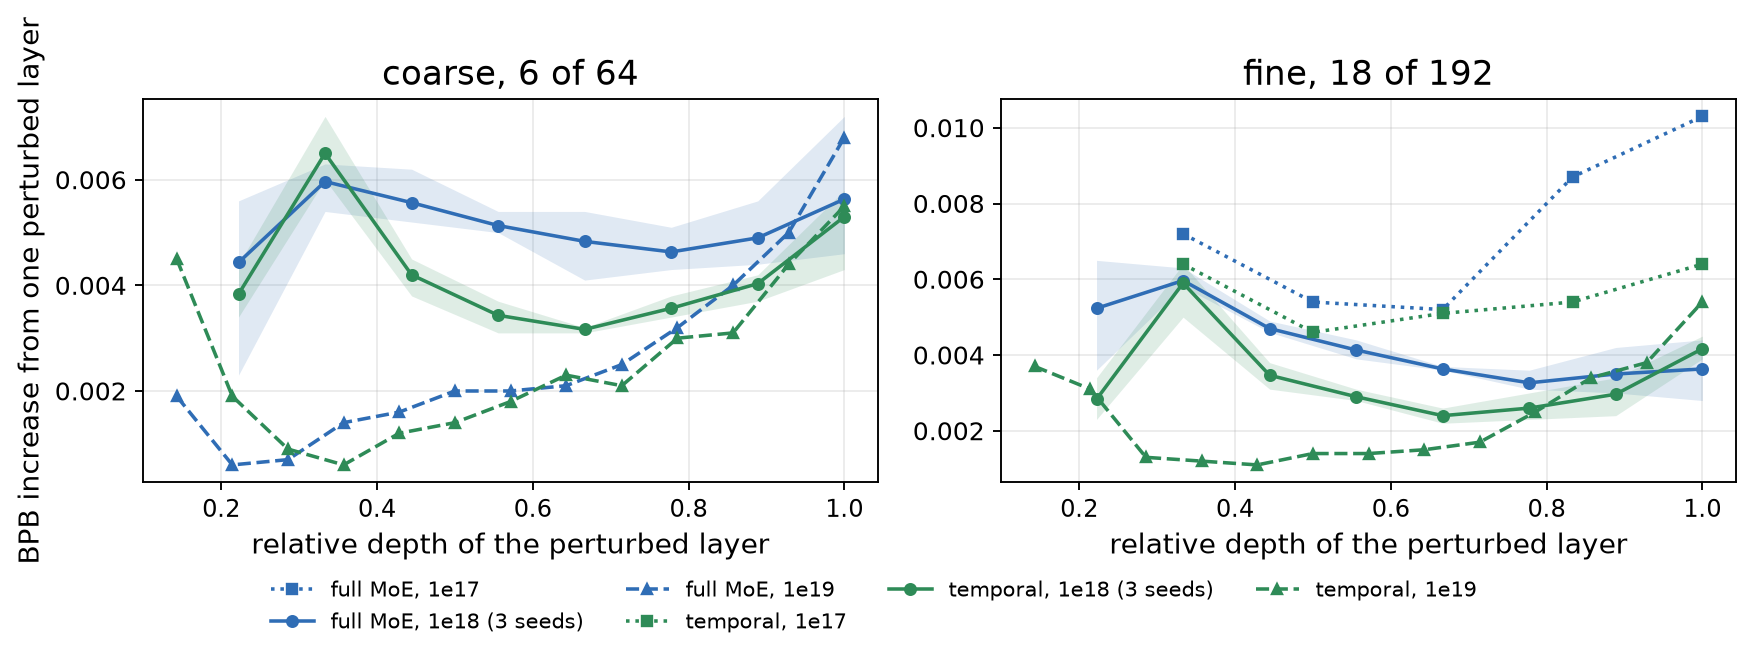
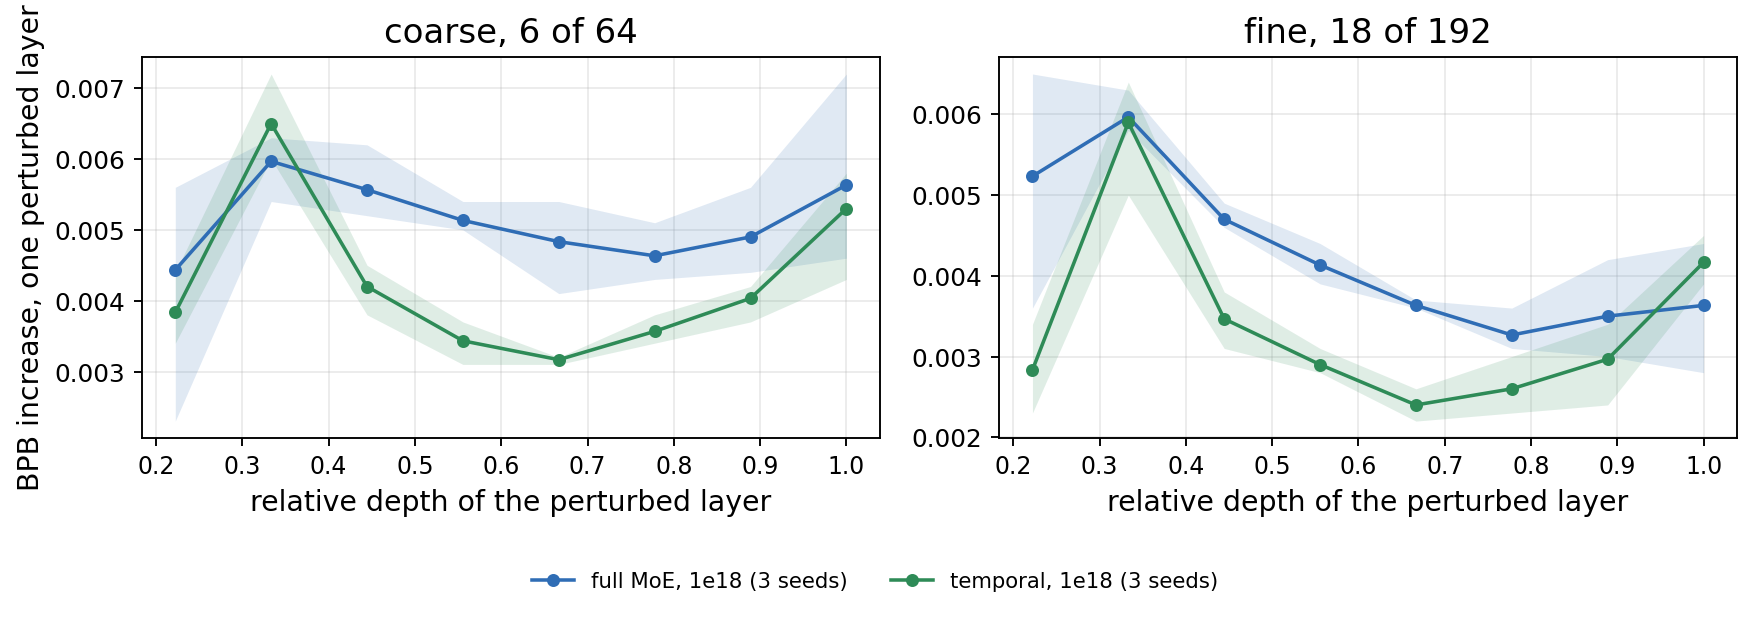
substitution figure: budget filter and paper variant at 1e18; paper bumped

Changed region(s): [[0.0, 0.0308, 1.0, 0.9546], [0.8938, 0.2464, 0.9247, 0.2771]]

diff --git a/analysis/residency/substitution_tolerance.py b/analysis/residency/substitution_tolerance.py
@@ -151,7 +151,8 @@ def write_csv(rows):
     print(f"wrote {CSV} ({len(rows)} rows)")
 
 
-def figure(rows, paper):
+def figure(rows, paper, budgets=None):
+    """budgets: optional set of budget labels to draw; None draws every budget present."""
     import matplotlib
     matplotlib.use("Agg")
     import matplotlib.pyplot as plt
@@ -160,6 +161,8 @@ def figure(rows, paper):
                              "ytick.labelsize": 10.5, "legend.fontsize": 10})
     fig, axes = plt.subplots(1, 2, figsize=(10.5, 3.6), sharey=False)
     marks = {"1e17": ("s", ":"), "1e18": ("o", "-"), "1e19": ("^", "--")}
+    if budgets:
+        marks = {b: m for b, m in marks.items() if b in budgets}
     for ax, grain, title in ((axes[0], 1, "coarse, 6 of 64"), (axes[1], 3, "fine, 18 of 192")):
         for regime, color in (("full", FULL), ("temporal", TEMPORAL)):
             for budget, (mk, ls) in marks.items():
@@ -185,7 +188,7 @@ def figure(rows, paper):
         ax.set_title(title)
         ax.set_xlabel("relative depth of the perturbed layer")
         ax.grid(alpha=0.25); ax.set_axisbelow(True)
-    axes[0].set_ylabel("BPB increase from one perturbed layer")
+    axes[0].set_ylabel("BPB increase, one perturbed layer")
     handles, labels = {}, []
     for ax in axes:
         for h, l in zip(*ax.get_legend_handles_labels()):
@@ -207,6 +210,12 @@ def figure(rows, paper):
 
 def main():
     paper = "--no-caption" in sys.argv
+    # --budgets 1e18[,1e19]: restrict the figure to these budgets (the paper draws 1e18 only,
+    # the budget with three seeds per model and both granularities paired)
+    budgets = None
+    for a in sys.argv:
+        if a.startswith("--budgets="):
+            budgets = set(a.split("=", 1)[1].split(","))
     files = sorted(glob.glob(os.path.join(SRC, "*.npz")))
     if not files:
         sys.exit(f"no records in {SRC}")
@@ -218,7 +227,7 @@ def main():
         rows += rows_for(d, run)
     rows += pair_rows(rows, data)
     write_csv(rows)
-    figure(rows, paper)
+    figure(rows, paper, budgets)
 
 
 if __name__ == "__main__":
